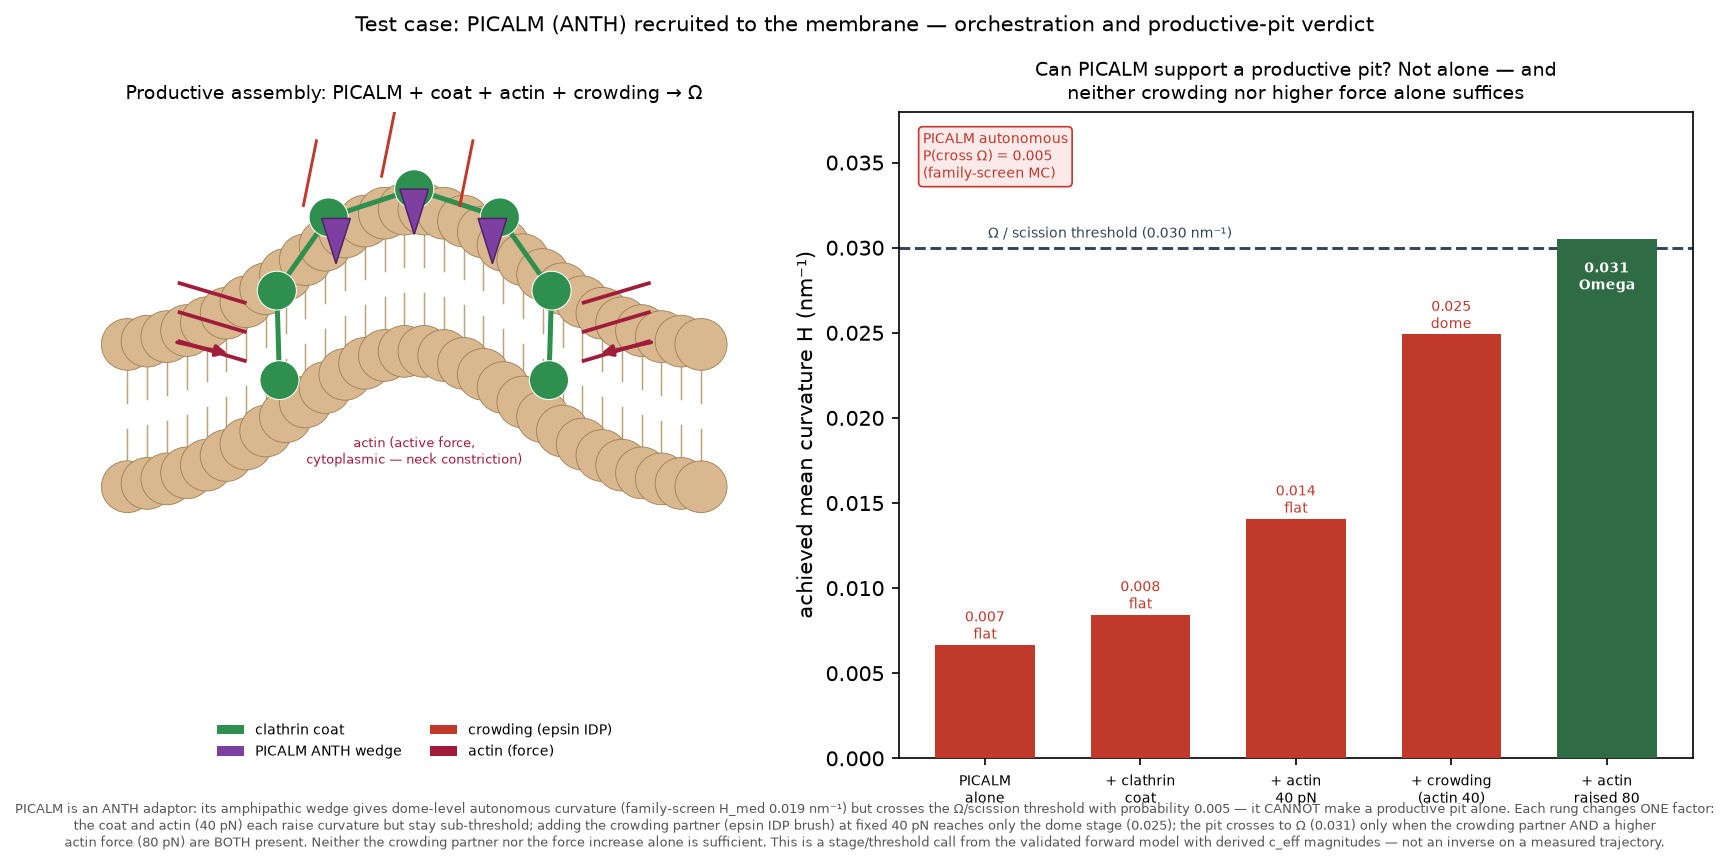
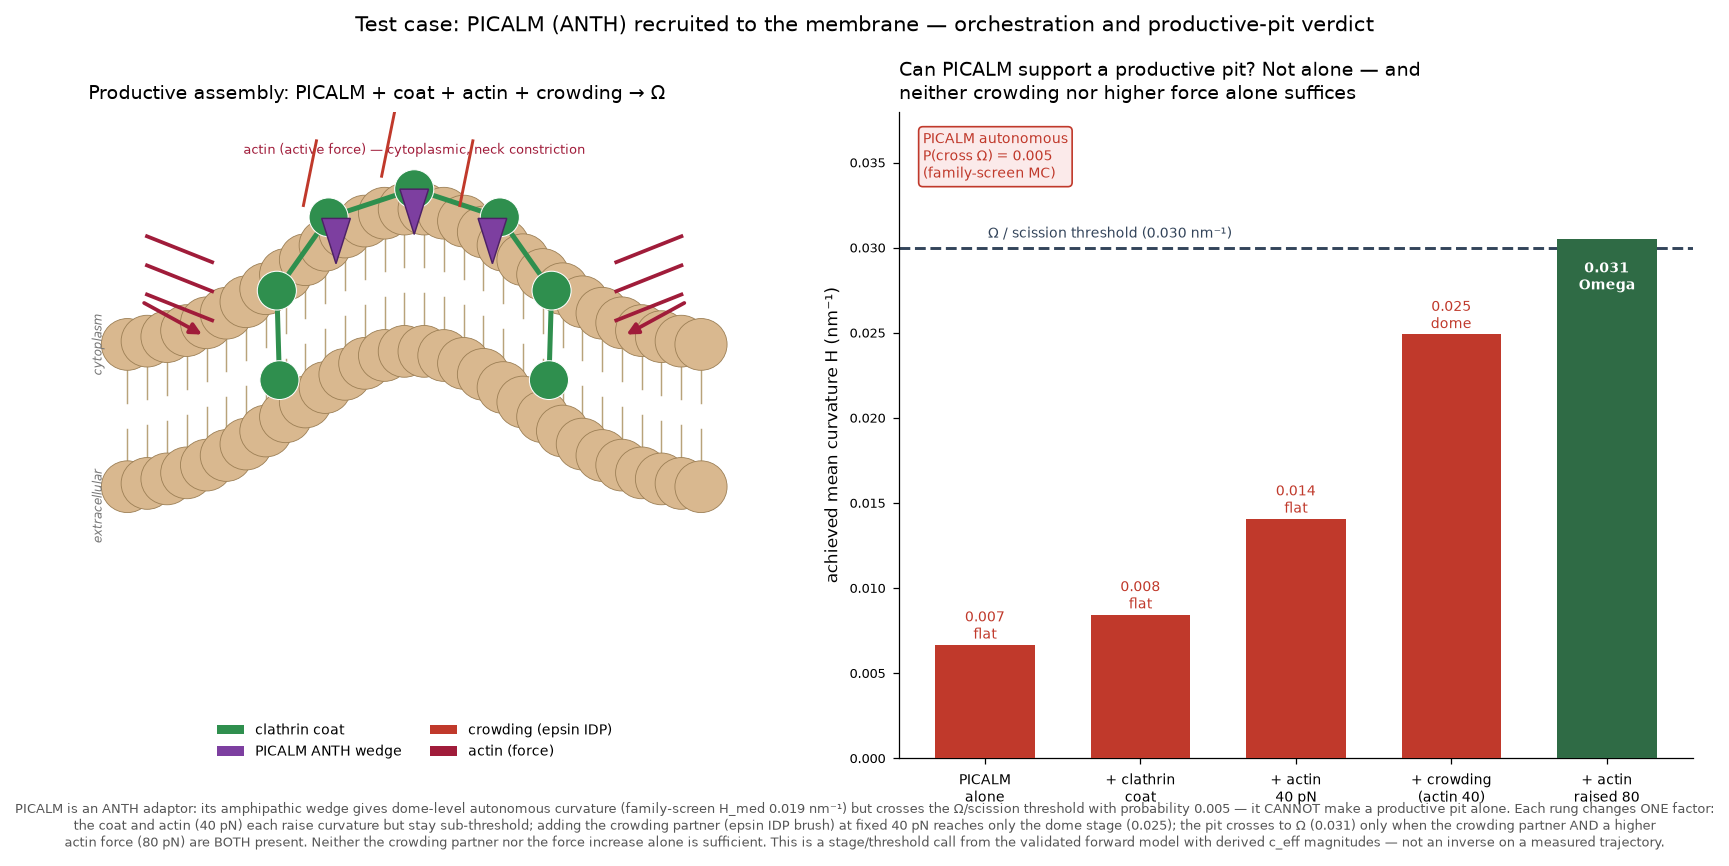
refactor: program-structure map, unambiguous actin placement, comment fix
- STRUCTURE.md: package -> module -> responsibility map (curvo / mechanome /
  structural_screen / validation / rl / tests), one line per module from its own
  docstring.
- PICALM schematic: lift actin filament bundles clearly above the top leaflet
  (into the cytoplasmic space, same side as the coat) and add cytoplasm /
  extracellular side cues -- resolves the residual which-side-of-the-membrane
  ambiguity the reviewer flagged. 0 text overlaps.
- stage0_energy_scale: fix the '310 K' comment (the value 4.114e-21 J is the
  298 K number, consistent with curvo.constants); frozen hash unaffected
  (computed over the ranking CSV, not source).

diff --git a/validation/realdata/render_picalm_figure.py b/validation/realdata/render_picalm_figure.py
@@ -94,22 +94,28 @@ for dx in (-0.12, 0.0, 0.12):
     axL.add_patch(mpl.patches.Polygon([[x - 0.022, ym + 0.02], [x + 0.022, ym + 0.02], [x, ym - 0.05]],
         closed=True, fc=os_.COL["h0"], ec="#4d2166", lw=0.7, zorder=7))
     axL.plot([x - 0.05, x - 0.03], [ym + 0.04, ym + 0.14], color=os_.COL["idp"], lw=1.4, zorder=5)
-# actin is CYTOPLASMIC -> same side as the clathrin coat (above the membrane).
-# Draw a filament bundle at each neck of the invagination, pushing inward.
+# actin is CYTOPLASMIC -> same side as the clathrin coat (ABOVE the top leaflet).
+# Draw a filament bundle at each neck, clearly in the cytoplasmic space above the
+# membrane surface, pushing inward toward the neck (constriction).
 for sgn in (-1, 1):
-    nx = cx + sgn * 0.26           # neck shoulder, where the bulge meets flat membrane
-    ny = top(nx)                    # membrane surface height at the neck
+    nx = cx + sgn * 0.30           # just outside the neck shoulder
+    ny = top(nx)                    # membrane surface height there
+    lift = 0.085                    # clear gap above the top leaflet -> unambiguous side
     for k in range(3):
-        # filaments run along the cytoplasmic face just above the neck
-        axL.plot([nx + sgn * 0.10, nx],
-                 [ny + 0.05 + k * 0.045, ny + 0.02 + k * 0.045],
+        axL.plot([nx + sgn * 0.11, nx + sgn * 0.01],
+                 [ny + lift + 0.06 + k * 0.045, ny + lift + 0.02 + k * 0.045],
                  color=os_.COL["actin"], lw=1.8, zorder=8)
-    # force arrow: pushes inward toward the neck (constriction), on the coat side
-    axL.add_patch(mpl.patches.FancyArrowPatch((nx + sgn * 0.11, ny + 0.05),
-        (nx + sgn * 0.02, ny + 0.03),
+    # force arrow: pushes inward and down toward the neck, staying above the leaflet
+    axL.add_patch(mpl.patches.FancyArrowPatch((nx + sgn * 0.12, ny + lift + 0.05),
+        (nx + sgn * 0.02, ny + lift - 0.005),
         arrowstyle="-|>", mutation_scale=11, lw=1.8, color=os_.COL["actin"], zorder=9))
-axL.text(cx, ybase - 0.02, "actin (active force,\ncytoplasmic — neck constriction)",
-         ha="center", va="top", fontsize=6.0, color=os_.COL["actin"])
+axL.text(cx, top(cx) + 0.19, "actin (active force) — cytoplasmic, neck constriction",
+         ha="center", va="bottom", fontsize=6.0, color=os_.COL["actin"])
+# side cues that pin which face of the bilayer is which
+axL.text(0.015, ybase + 0.12, "cytoplasm", rotation=90, va="center", ha="center",
+         fontsize=5.6, color="#777", style="italic")
+axL.text(0.015, ybase - 0.13, "extracellular", rotation=90, va="center", ha="center",
+         fontsize=5.6, color="#777", style="italic")
 hd = [mpl.patches.Patch(fc=os_.COL[k], label=l) for k, l in
     [("clathrin", "clathrin coat"), ("h0", "PICALM ANTH wedge"), ("idp", "crowding (epsin IDP)"), ("actin", "actin (force)")]]
 axL.legend(handles=hd, loc="lower center", ncol=2, frameon=False, fontsize=6.6, bbox_to_anchor=(0.5, -0.02))

diff --git a/mechanome/structural_screen/src/stage0_energy_scale.py b/mechanome/structural_screen/src/stage0_energy_scale.py
@@ -3,7 +3,7 @@ import numpy as np, json, matplotlib.pyplot as plt
 
 KAPPA_KBT = 20.0        # bilayer bending modulus (k_B T)
 GAMMA_MN_M = 0.01       # resting membrane tension (mN/m)
-KBT_J = 4.114e-21       # k_B T at 310 K (J)
+KBT_J = 4.114e-21       # k_B T (J); 4.114 pN*nm, consistent with curvo.constants
 NECK_RADIUS_NM = 25.0   # entry neck / bud radius
 RELEVANCE_THRESHOLD_KBT = 10.0  # per-protein gate: "order tens of k_BT"
 

diff --git a/STRUCTURE.md b/STRUCTURE.md
@@ -1,0 +1,77 @@
+# Program structure
+
+`mechanome` is organized as one umbrella project with a membrane-scale inverse
+engine (`curvo/`) at its core, a multi-scale schema and forward-model set
+(`mechanome/`), a structure-based screen (`mechanome/structural_screen/`), a
+validation suite (`validation/`), and an RL scaffold (`rl/`). Physical
+constants live in exactly one place (`curvo/constants.py`).
+
+## `curvo/` — the membrane-scale inverse engine
+
+| Module | Responsibility |
+|--------|----------------|
+| `constants.py` | Single source of truth for shared physical constants (kBT, default κ, coat rigidity). |
+| `schemas.py` | Core data contracts for the curvature-orchestration pipeline. |
+| `players.py` | The player ontology; physics enters as guardrails, not deciders. |
+| `parameter_store.py` | The "use existing data" backbone (cached literature/DB parameters with provenance). |
+| `structure_provider.py` | Public ML structure models (AlphaFold) as pre-existing data. |
+| `evaluator_tier0.py` | The cheap analytic evaluator (Helfrich tube + spherical-cap budding/CCS), microseconds/call. |
+| `orchestrator.py` | The search loop — the bitter-lesson engine (propose → prune → resolve → evaluate → revise). |
+| `synth_movie.py` | Forward-simulate a curvature trajectory from known forces (synthetic ground truth). |
+| `perception.py` | PerceptionProvider: pixels → calibrated Geometry(t) + Density(t). |
+| `inverse.py` | The Bayesian inverse engine: geometry(t) → posterior (nested sampling + MCMC cross-check). |
+| `mechanism.py` | Bayesian mechanism-discrimination core (evidence-ratio model comparison). |
+| `recovery.py` | Synthetic recovery validation — the credibility gate for every force claim. |
+| `analyze.py` | The north-star agent endpoint: `analyze(video, question)`. |
+| `md_gap_queue.py` | The future-oriented seam where MD plugs in. |
+| `schematic.py` | Auto-generated publication-style output schematic. |
+
+## `mechanome/` — the multi-scale schema and forward models
+
+| Module | Responsibility |
+|--------|----------------|
+| `schema.py` | The `MechanoClaim` data contract with structural epistemic-tier enforcement. |
+| `registry.py` | The Forward-Model and Module registries — makes the schema executable. |
+| `emit.py` | Convert curvo's validated outputs into GROUNDED `MechanoClaim`s. |
+| `links.py` | Curated LINKED edges (flagged mechanotransduction hypotheses). |
+| `mechano_schematic.py` | Render a set of `MechanoClaim`s as a tiered scale-map graph. |
+| `forward_tissue.py` | Tissue module — vertex / junction force inference (`vertex_v1`). |
+| `forward_cortex.py` | Cortex module — active-gel cortical tension via Young-Laplace (`active_gel_v1`). |
+| `forward_bond.py` | Bond module — Bell / catch-slip molecular bond (`catch_slip_v1`). |
+| `forward_channel.py` | Channel module — mechanosensitive gating, MscL/Piezo-type (`ms_gating_v1`). |
+| `channel_link.py` | The structural-screen → channel cross-scale link (structure-derived c₀ → gating Po). |
+
+## `mechanome/structural_screen/` — the structure-based mechanical screen
+
+Vendored from *mechanistic-entry-model*. Ranks membrane proteins by
+structure-derived curvature-generating capacity (`structural_screen_v1`). Stages
+0–4 under `src/`; precomputed `results/` + `figures/` are authoritative; the
+scored ranking is frozen with a SHA-256 integrity hash and a pre-registration.
+See `structural_screen/MODULE.md`.
+
+## `validation/` — the validation and demonstration suite
+
+Real force-paired STED (`tether_sted.py`), the perception operating-envelope
+benchmark (`perception_benchmark.py`, `plot_envelope.py`), pixels→force
+(`image_to_force.py`), cryo-ET modality transfer (`modality_adapter.py`,
+`real_image_probe.py`, `mddb_adapter.py`), the orchestration-recovery program
+(`field_movie.py` → `tracking.py` → `motion.py` → `per_track_recovery.py` →
+`orchestration.py`), and the real-data case studies under `validation/realdata/`
+(2020/2022 epsin/IAV ingestion, PICALM and epsin-domain orchestration,
+ENTH-fusion designs, the ENTH+AP180 inverse-recovery closure).
+
+## `rl/` — the RL scaffold (a byproduct, not the scientific aim)
+
+| Module | Responsibility |
+|--------|----------------|
+| `ccp_budding_env.py` | `CCPBuddingEnv` — a Gymnasium environment over curvo's forward model. |
+| `train_agent.py` | A lightweight tabular Q-learning sanity run on `CCPBuddingEnv`. |
+
+## `tests/` — the test suite
+
+One test module per subsystem: `test_players`, `test_validation`,
+`test_analyze_guardrails`, `test_inverse_guard`, `test_perception_benchmark`,
+`test_modality_adapter`, `test_orchestration`, `test_realdata`,
+`test_mechanome` (schema + emission), `test_mechanome_modules` (the four
+analytic forward models + registry integrity + structural-screen integrity),
+and `test_rl_env` (the RL environment API).
